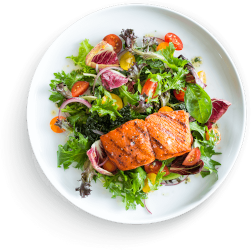
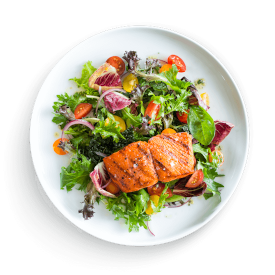
style featuredItemCards and add custom sizing

diff --git a/src/components/featuredItems/featuredItems.js b/src/components/featuredItems/featuredItems.js
@@ -8,10 +8,10 @@ const FeaturedItems = () => {
       <div className={styles.wrapper}>
         <h3 className={styles.heading}>Featured Foods</h3>
         <div className={styles.carousel}>
-          <FeaturedItemCard image="bowl-small.png" title='Grilled Chicken Salad' info='980kj' />
-          <FeaturedItemCard image="bowl-small.png" title='Grilled Chicken Salad' info='980kj' />
-          <FeaturedItemCard image="bowl-small.png" title='Grilled Chicken Salad' info='980kj' />
-          <FeaturedItemCard image="bowl-small.png" title='Grilled Chicken Salad' info='980kj' />
+          <FeaturedItemCard image="featured1.png" title='Grilled Chicken Salad' info='980kj' />
+          <FeaturedItemCard image="featured2.png" title='Grilled Chicken Salad' info='980kj' imageSize='175px' />
+          <FeaturedItemCard image="featured3.png" title='Grilled Chicken Salad' info='980kj' />
+          <FeaturedItemCard image="featured4.png" title='Grilled Chicken Salad' info='980kj' imageSize='150px' />
         </div>
         <div className={styles.arrows}>
           <button type="button" className={`${styles.arrow} ${styles.arrowLeft}`}>&larr;</button>

diff --git a/src/components/featuredItemCard/featuredItemCard.module.scss b/src/components/featuredItemCard/featuredItemCard.module.scss
@@ -1,6 +1,6 @@
 @import '../../styles/variables';
 
-$cardHeight: 120px;
+$cardHeight: 130px;
 
 .card {
   position: relative;
@@ -20,20 +20,22 @@ $cardHeight: 120px;
   top: 50%;
   left: calc(-#{$cardHeight} / 2);
   transform: translateY(-50%);
-  width: calc(#{$cardHeight} + 5px);
-  height: calc(#{$cardHeight} + 5px);
-  background-color: #333;
+  width: calc(#{$cardHeight} + 10px);
+  height: calc(#{$cardHeight} + 10px);
   border-radius: 50%;
 }
 
 .title {
-  font-weight: bold;
+  font-weight: 700;
   color: black;
   margin-bottom: 2px;
-  line-height: 1.35;
+  margin-top: 7px;
+  line-height: 1.25;
+  font-size: 1.2rem;
 }
 
 .info {
   color: $secondary;
-  font-size: 0.875rem;
+  font-size: 1rem;
+  font-weight: 600;
 }

diff --git a/src/components/featuredItemCard/featuredItemCard.js b/src/components/featuredItemCard/featuredItemCard.js
@@ -2,10 +2,10 @@ import React from 'react'
 import Image from '../image'
 import styles from './featuredItemCard.module.scss'
 
-const FeaturedItemCard = ({ image, title, info }) => {
+const FeaturedItemCard = ({ image, title, info, imageSize }) => {
   return (
     <div className={styles.card}>
-      <div className={styles.image} >
+      <div className={styles.image} style={{width: imageSize, height: imageSize, left: `calc(-${imageSize} / 2)`}} >
         <Image filename={image} />
       </div>
       <p className={styles.title}>{title}</p>
